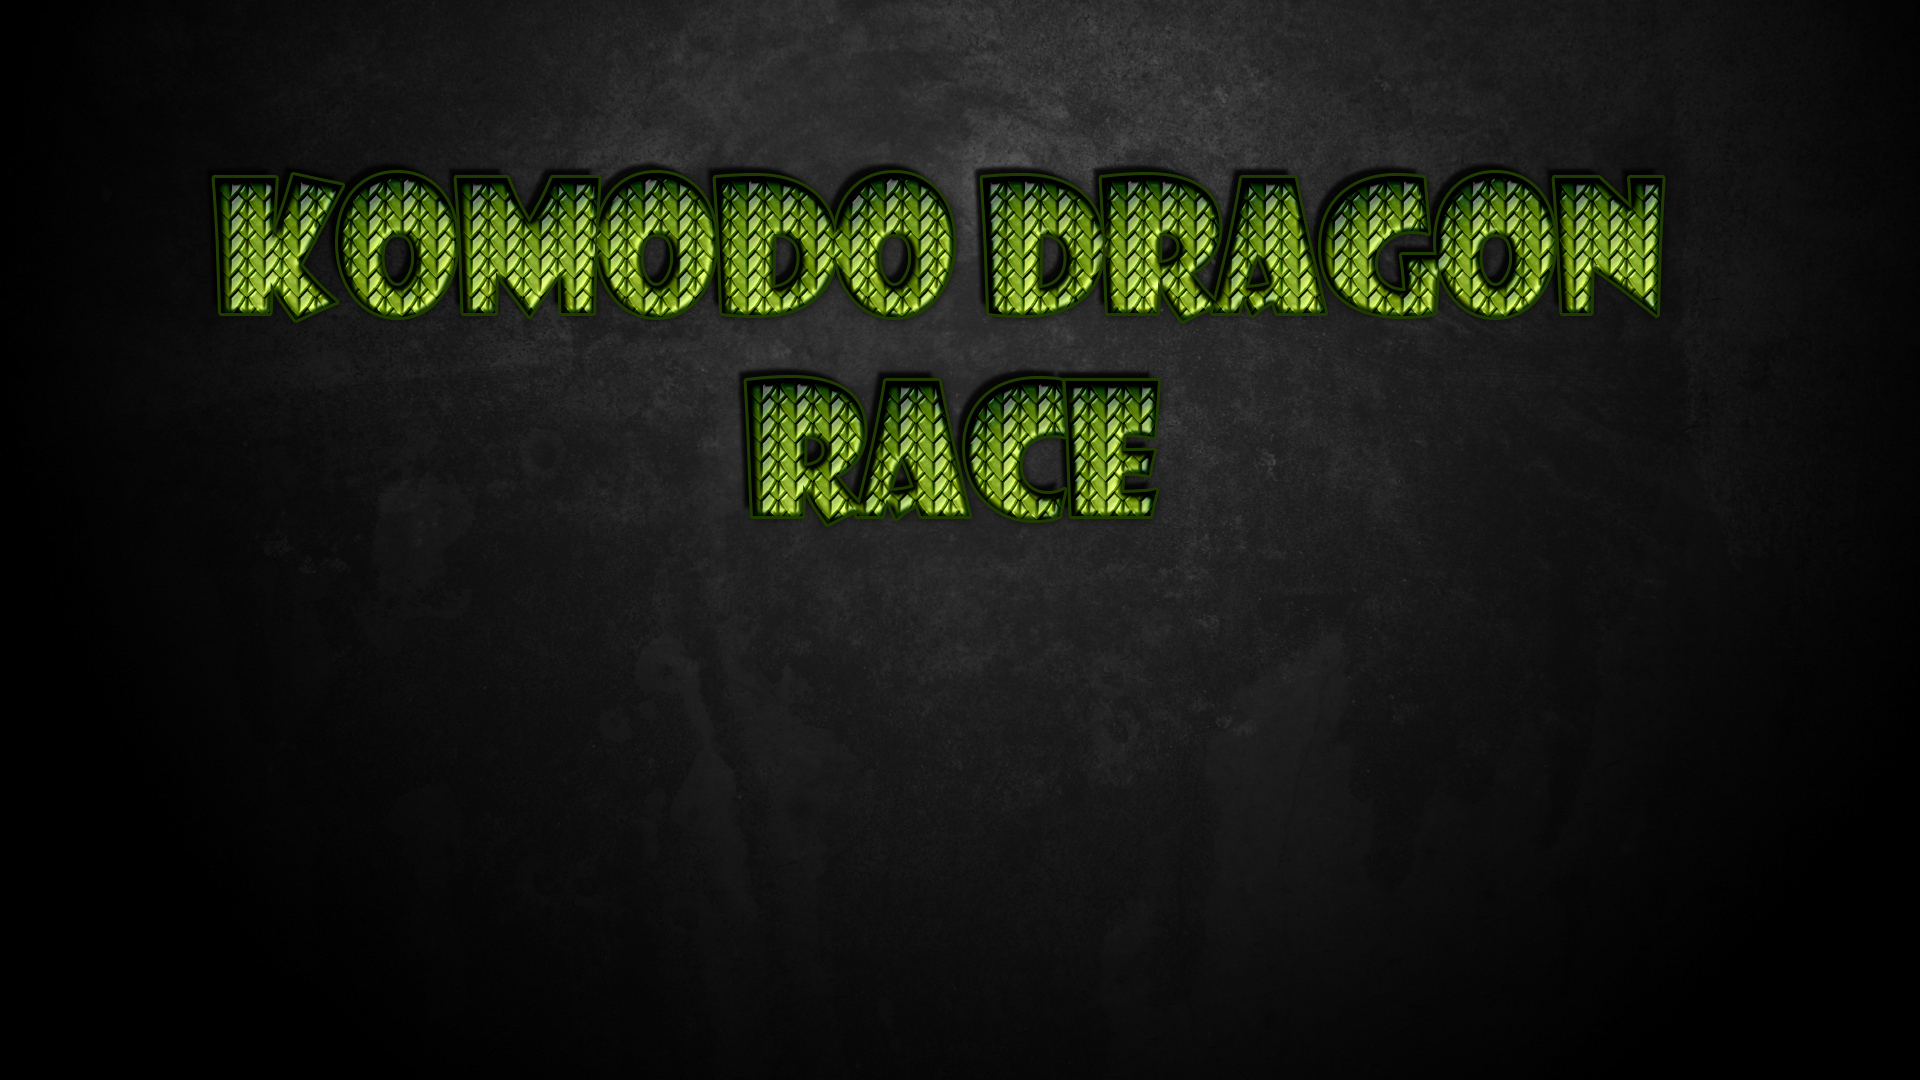
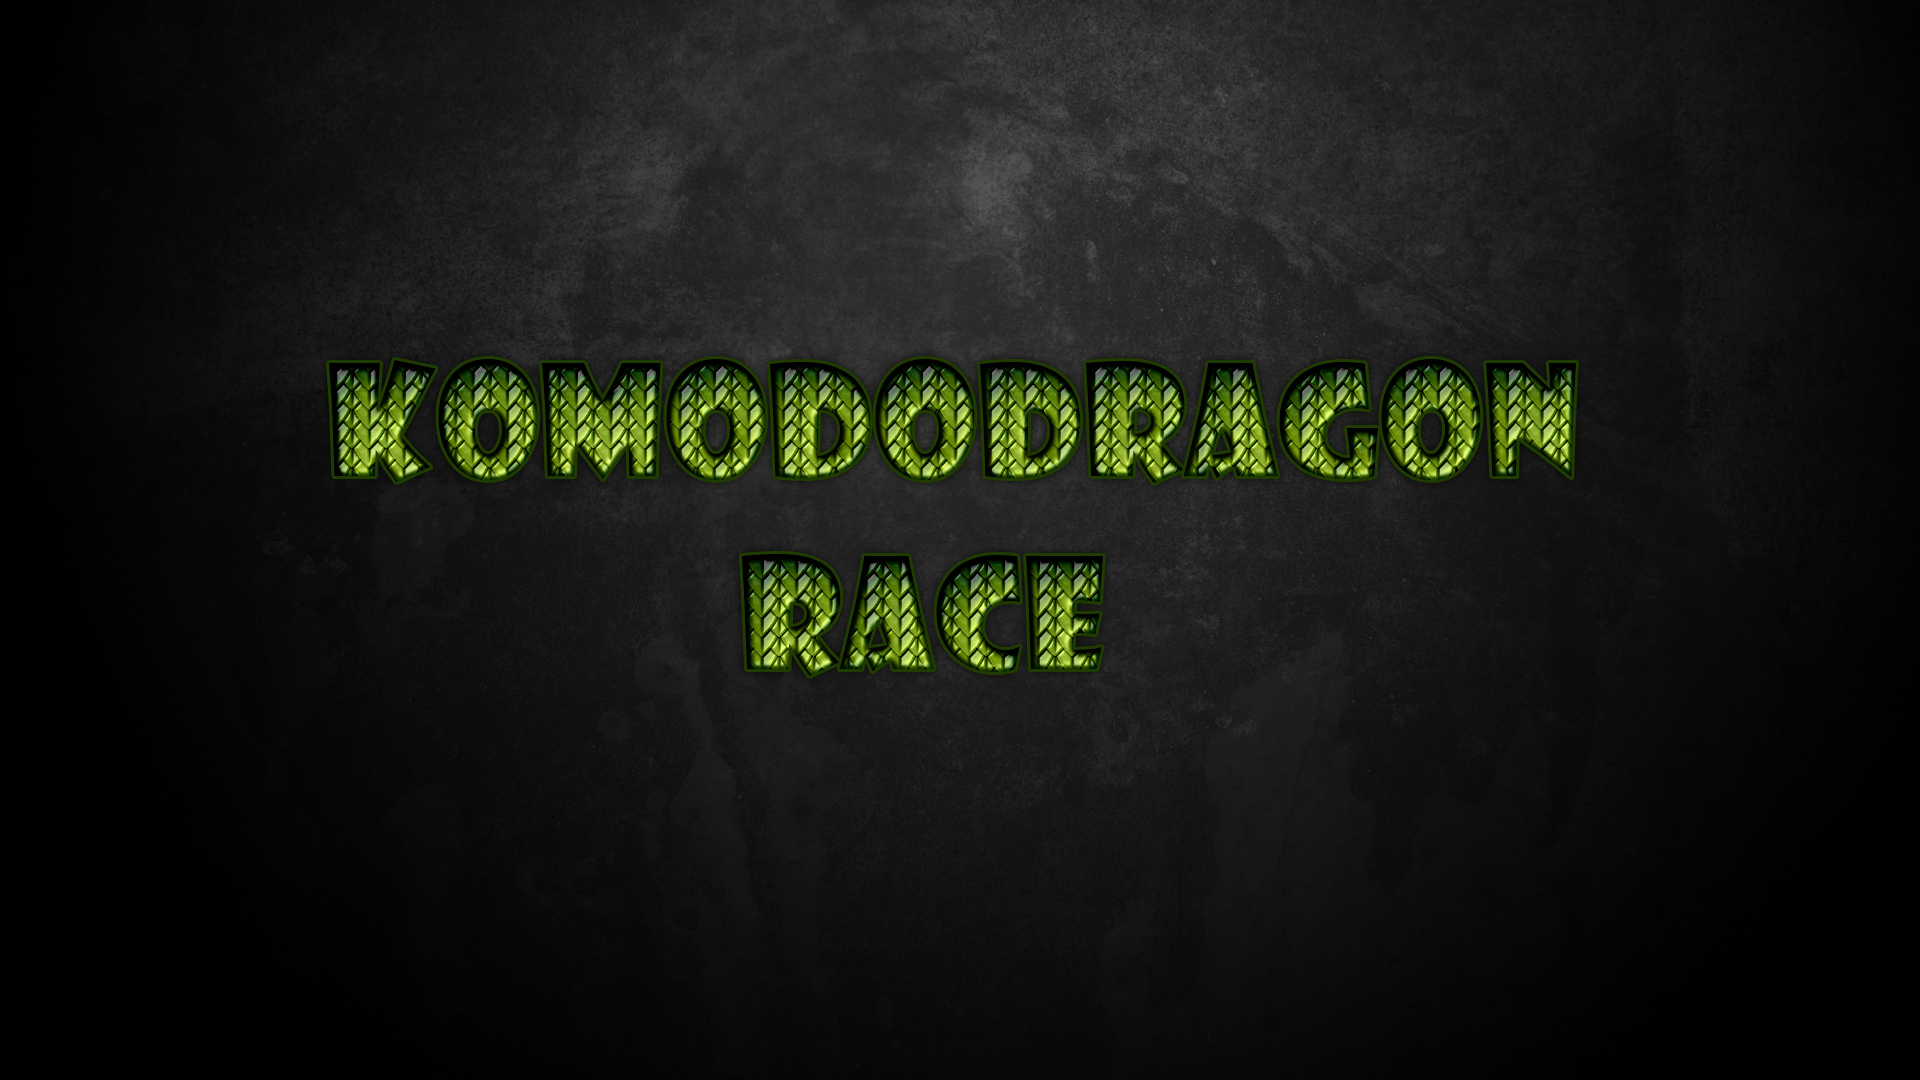
homepage
added navbar and style
added buttons
changed background

Changed region(s): [[0.0938, 0.1528, 0.875, 0.6417]]

diff --git a/Komododragonrace/html5-boilerplate_v5.3.0/css/main.css b/Komododragonrace/html5-boilerplate_v5.3.0/css/main.css
@@ -108,6 +108,9 @@
     font-family: Bariol-Regular;
     color: #DDDDDA;
   }
+  ul{
+      list-style-type: none;
+  }
   body{
     background: #000 url('../img/bodyback.jpg') no-repeat;
     background-size: 100%;
@@ -117,144 +120,14 @@
     top: 31%;
     left: 43%;
   }
-  @-webkit-keyframes hvr-buzz {
-  50% {
-    -webkit-transform: translateX(3px) rotate(2deg);
-    transform: translateX(3px) rotate(2deg);
+  nav{
+      margin: 0 auto;
+      width: 80%;
   }
-  100% {
-    -webkit-transform: translateX(-3px) rotate(-2deg);
-    transform: translateX(-3px) rotate(-2deg);
+  nav ul{
+      display: flex;
+      justify-content: space-between;
   }
-}
-@keyframes hvr-buzz {
-  50% {
-    -webkit-transform: translateX(3px) rotate(2deg);
-    transform: translateX(3px) rotate(2deg);
-  }
-  100% {
-    -webkit-transform: translateX(-3px) rotate(-2deg);
-    transform: translateX(-3px) rotate(-2deg);
-  }
-}
-.hvr-buzz {
-  display: inline-block;
-  vertical-align: middle;
-  -webkit-transform: perspective(1px) translateZ(0);
-  transform: perspective(1px) translateZ(0);
-  box-shadow: 0 0 1px transparent;
-}
-.hvr-buzz:hover, .hvr-buzz:focus, .hvr-buzz:active {
-  -webkit-animation-name: hvr-buzz;
-  animation-name: hvr-buzz;
-  -webkit-animation-duration: 0.15s;
-  animation-duration: 0.15s;
-  -webkit-animation-timing-function: linear;
-  animation-timing-function: linear;
-  -webkit-animation-iteration-count: infinite;
-  animation-iteration-count: infinite;
-}
-@keyframes hvr-wobble-vertical {
-  16.65% {
-    -webkit-transform: translateY(8px);
-    transform: translateY(8px);
-  }
-  33.3% {
-    -webkit-transform: translateY(-6px);
-    transform: translateY(-6px);
-  }
-  49.95% {
-    -webkit-transform: translateY(4px);
-    transform: translateY(4px);
-  }
-  66.6% {
-    -webkit-transform: translateY(-2px);
-    transform: translateY(-2px);
-  }
-  83.25% {
-    -webkit-transform: translateY(1px);
-    transform: translateY(1px);
-  }
-  100% {
-    -webkit-transform: translateY(0);
-    transform: translateY(0);
-  }
-}
-.hvr-wobble-vertical {
-  display: inline-block;
-  vertical-align: middle;
-  -webkit-transform: perspective(1px) translateZ(0);
-  transform: perspective(1px) translateZ(0);
-  box-shadow: 0 0 1px transparent;
-}
-.hvr-wobble-vertical:hover, .hvr-wobble-vertical:focus, .hvr-wobble-vertical:active {
-  -webkit-animation-name: hvr-wobble-vertical;
-  animation-name: hvr-wobble-vertical;
-  -webkit-animation-duration: 1s;
-  animation-duration: 1s;
-  -webkit-animation-timing-function: ease-in-out;
-  animation-timing-function: ease-in-out;
-  -webkit-animation-iteration-count: 1;
-  animation-iteration-count: 1;
-}
-
-  #d1{
-    position: absolute;
-    top:5%; 
-    left: 10%;
-  }
-  #d2{
-    position: absolute;
-    top:37%; 
-    right:13%;
-  }
-  #d3{
-    position: absolute;
-    top:60%; 
-    left: 20%;
-  }
-  #d4{
-    position: absolute;
-    top:80%; 
-    right:10%;
-  }
-  #d5{
-    position: absolute;
-    top:2%; 
-    left: 50%;
-  }
-  #d6{
-    position: absolute;
-    top:75%; 
-    left:10%;
-  }
-  #d7{
-    position: absolute;
-    top:70%; 
-    left: 50%;
-  }
-  #d8{
-    position: absolute;
-    top:5%; 
-    right:3%;
-  }
-  #d9{
-    position: absolute;
-    top:45%; 
-    left:2%;
-  }
-  #d10{
-    position: absolute;
-    top:35%; 
-    left: 20%;
-  }
-  #d11{
-    position: absolute;
-    top:55%; 
-    right: 10%;
-  }
-  
-    
     
 
 

diff --git a/Komododragonrace/html5-boilerplate_v5.3.0/index.php b/Komododragonrace/html5-boilerplate_v5.3.0/index.php
@@ -3,7 +3,7 @@
 <head>
     <meta charset="utf-8">
     <meta http-equiv="x-ua-compatible" content="ie=edge">
-    <title></title>
+    <title>Komododragon Race | Home</title>
     <meta name="description" content="">
     <meta name="viewport" content="width=device-width, initial-scale=1">
 
@@ -20,9 +20,17 @@
 <![endif]-->
 
 <!-- Add your site or application content here -->
-<div class="play">
-    <a class="hvr-wobble-vertical" id="d11" href="#current" onclick="clicksound2.playclip()"><img src="img/download_real.png" alt="Yay!"></a>
-</div>
+<header>
+    <nav>
+        <ul>
+            <li><a href=""><img src="img/download.png" alt="Download"></a></li>
+            <li><a href=""><img src="img/login.png" alt="Login"></a></li>
+            <li><a href=""><img src="img/register.png" alt="Register"></a></li>
+        </ul>
+    </nav>
+</header>
+
+
 </body>
 <script src="https://code.jquery.com/jquery-1.12.0.min.js"></script>
 <script>window.jQuery || document.write('<script src="js/vendor/jquery-1.12.0.min.js"><\/script>')</script>
